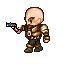
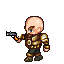
"Bullet object added, working on shooting actual bullet animation"

diff --git a/main.py b/main.py
@@ -21,6 +21,10 @@ walkLeft = [pygame.image.load('Resources/L1.png'),
 bg = pygame.image.load('Resources/bg.jpg')
 char = pygame.image.load('Resources/standing.png')
 clock = pygame.time.Clock()
+shoot_right = pygame.image.load('Resources/shoot_right.png')
+shoot_left = pygame.image.load('Resources/shoot_left.png')
+bulletL = pygame.image.load('Resources/bullet_l.png')
+bulletR = pygame.image.load('Resources/bullet_r.png')
 
 
 class Game:
@@ -64,17 +68,28 @@ class Player(object):
         self.right = False
         self.walkCount = 0
         self.jumpCount = 10
+        self.hold_gun = False
 
     def draw(self, win):
         if self.walkCount + 1 >= 27:
             self.walkCount = 0
 
         if self.left:
-            win.blit(walkLeft[self.walkCount // 3], (self.x, self.y))
-            self.walkCount += 1
+            if _game.keys[pygame.K_LCTRL]:
+                self.shoot_animation(win)
+                self.hold_gun = True
+            else:
+                win.blit(walkLeft[self.walkCount // 3], (self.x, self.y))
+                self.walkCount += 1
+                self.hold_gun = False
         elif self.right:
-            win.blit(walkRight[self.walkCount // 3], (self.x, self.y))
-            self.walkCount += 1
+            if _game.keys[pygame.K_LCTRL]:
+                self.shoot_animation(win)
+                self.hold_gun = True
+            else:
+                win.blit(walkRight[self.walkCount // 3], (self.x, self.y))
+                self.walkCount += 1
+                self.hold_gun = False
         else:
             win.blit(char, (self.x, self.y))
 
@@ -108,6 +123,36 @@ class Player(object):
             else:
                 self.isJump = False
                 self.jumpCount = 10
+
+    def shoot_animation(self, win):
+        if self.right and not self.left:
+            win.blit(shoot_right, (self.x, self.y))
+        if self.left and not self.right:
+            win.blit(shoot_left, (self.x, self.y))
+
+
+class Bullet(object):
+    def __init__(self, _player):
+        self.bullet_x = _player.x
+        self.bullet_y = _player.y
+        self.bullet_vel = 7
+        self.exists = True
+        self.s_right = True if _player.right else False
+        self.s_left = True if _player.left else False
+
+    def draw_bullet(self, win, _player):
+        if _player.hold_gun:
+            if self.s_right:
+                win.blit(bulletR, (_player.x + 64, _player.y + 10))
+            elif self.s_left:
+                win.blit(bulletL, (_player.))
+
+    def bullet_movement(self, _player):
+        while self.exists:
+            if self.s_right:
+                self.bullet_x += self.bullet_vel
+            elif self.s_left:
+                self.bullet_x -= self.bullet_vel
 
 
 if __name__ == '__main__':
